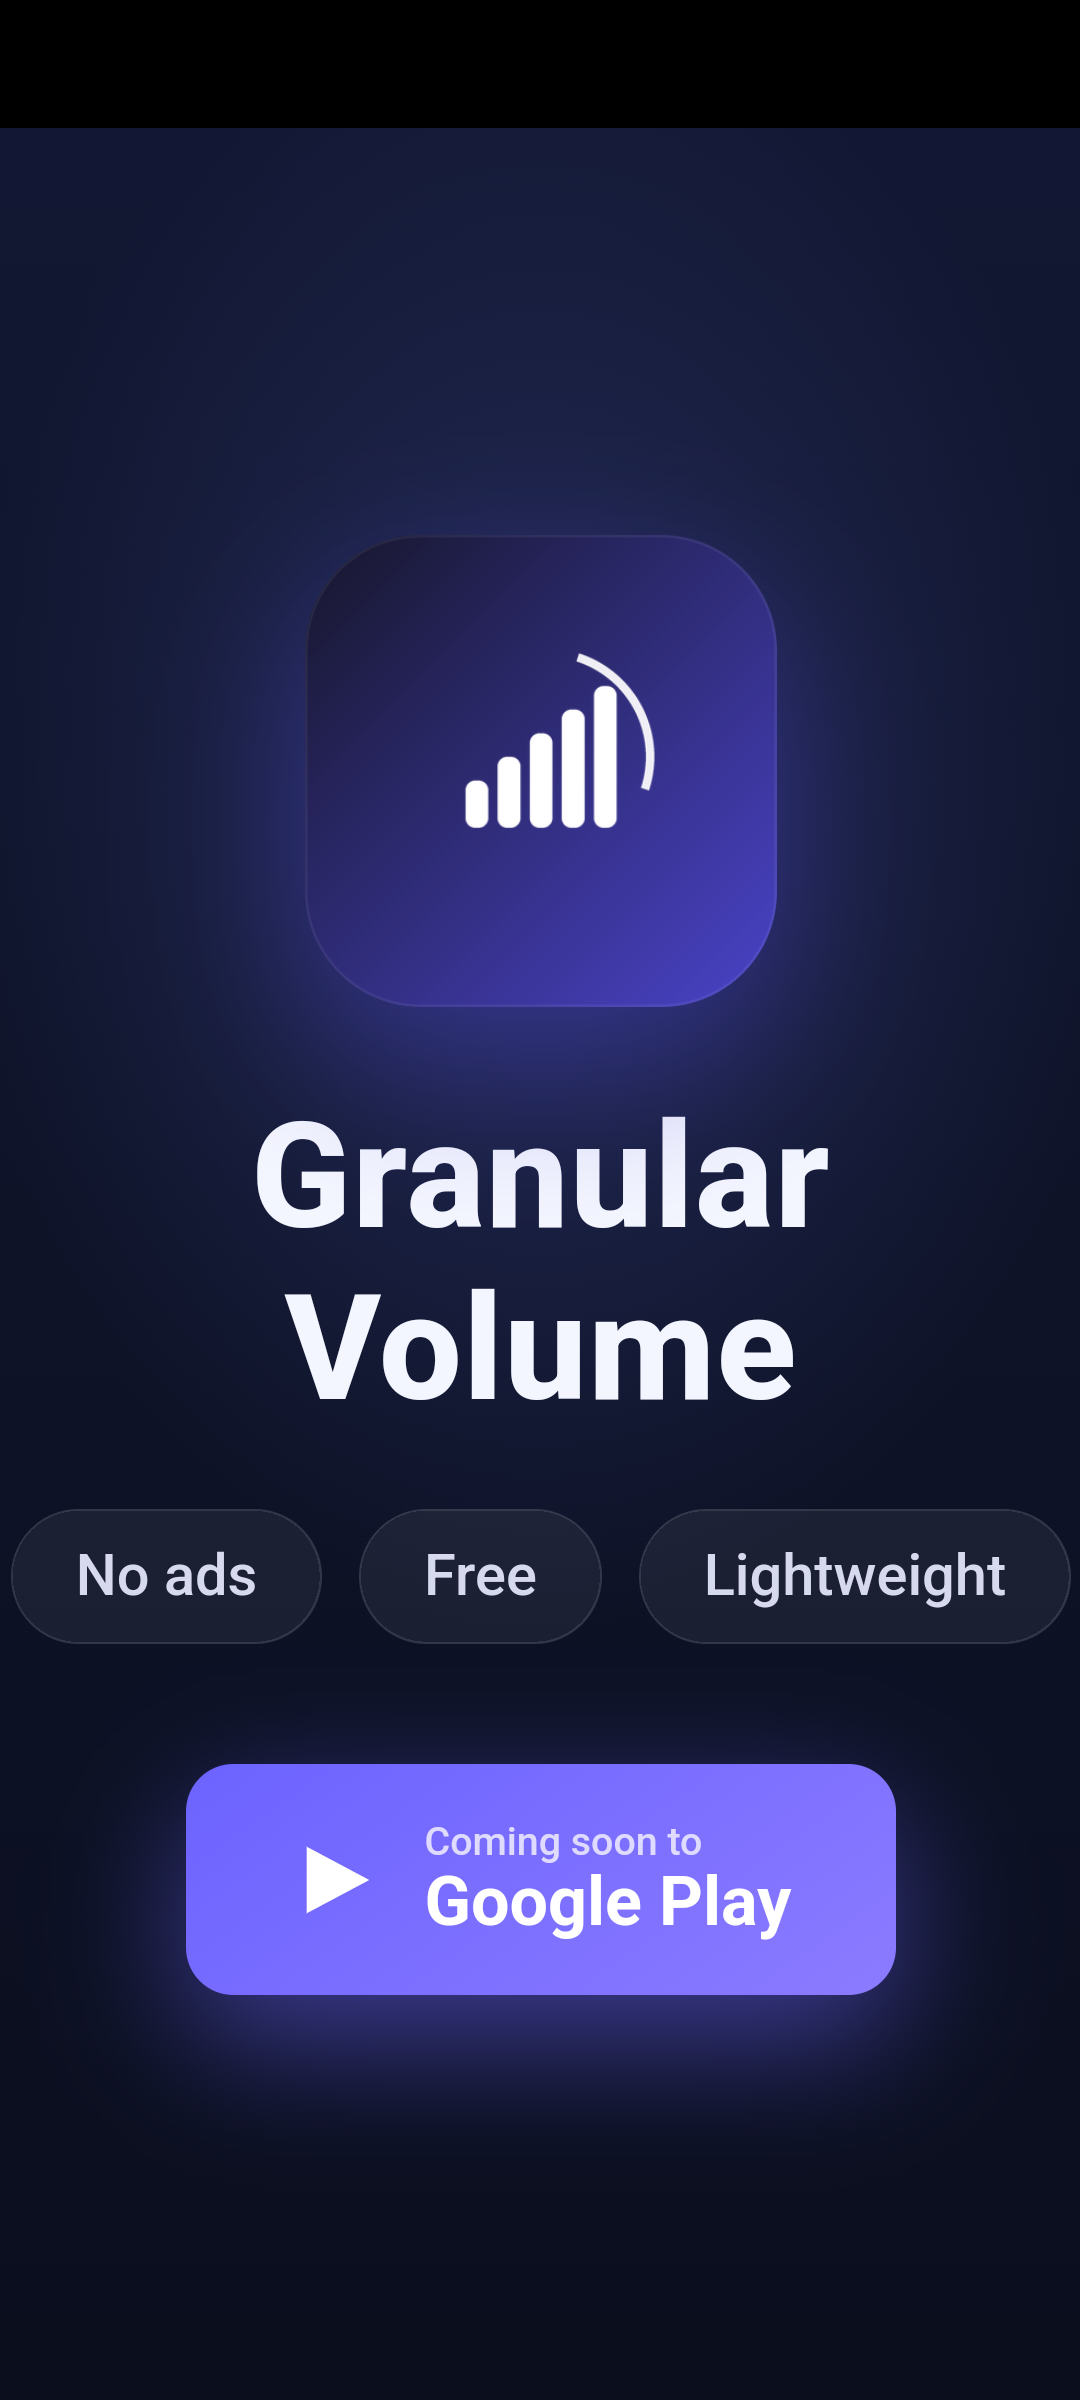
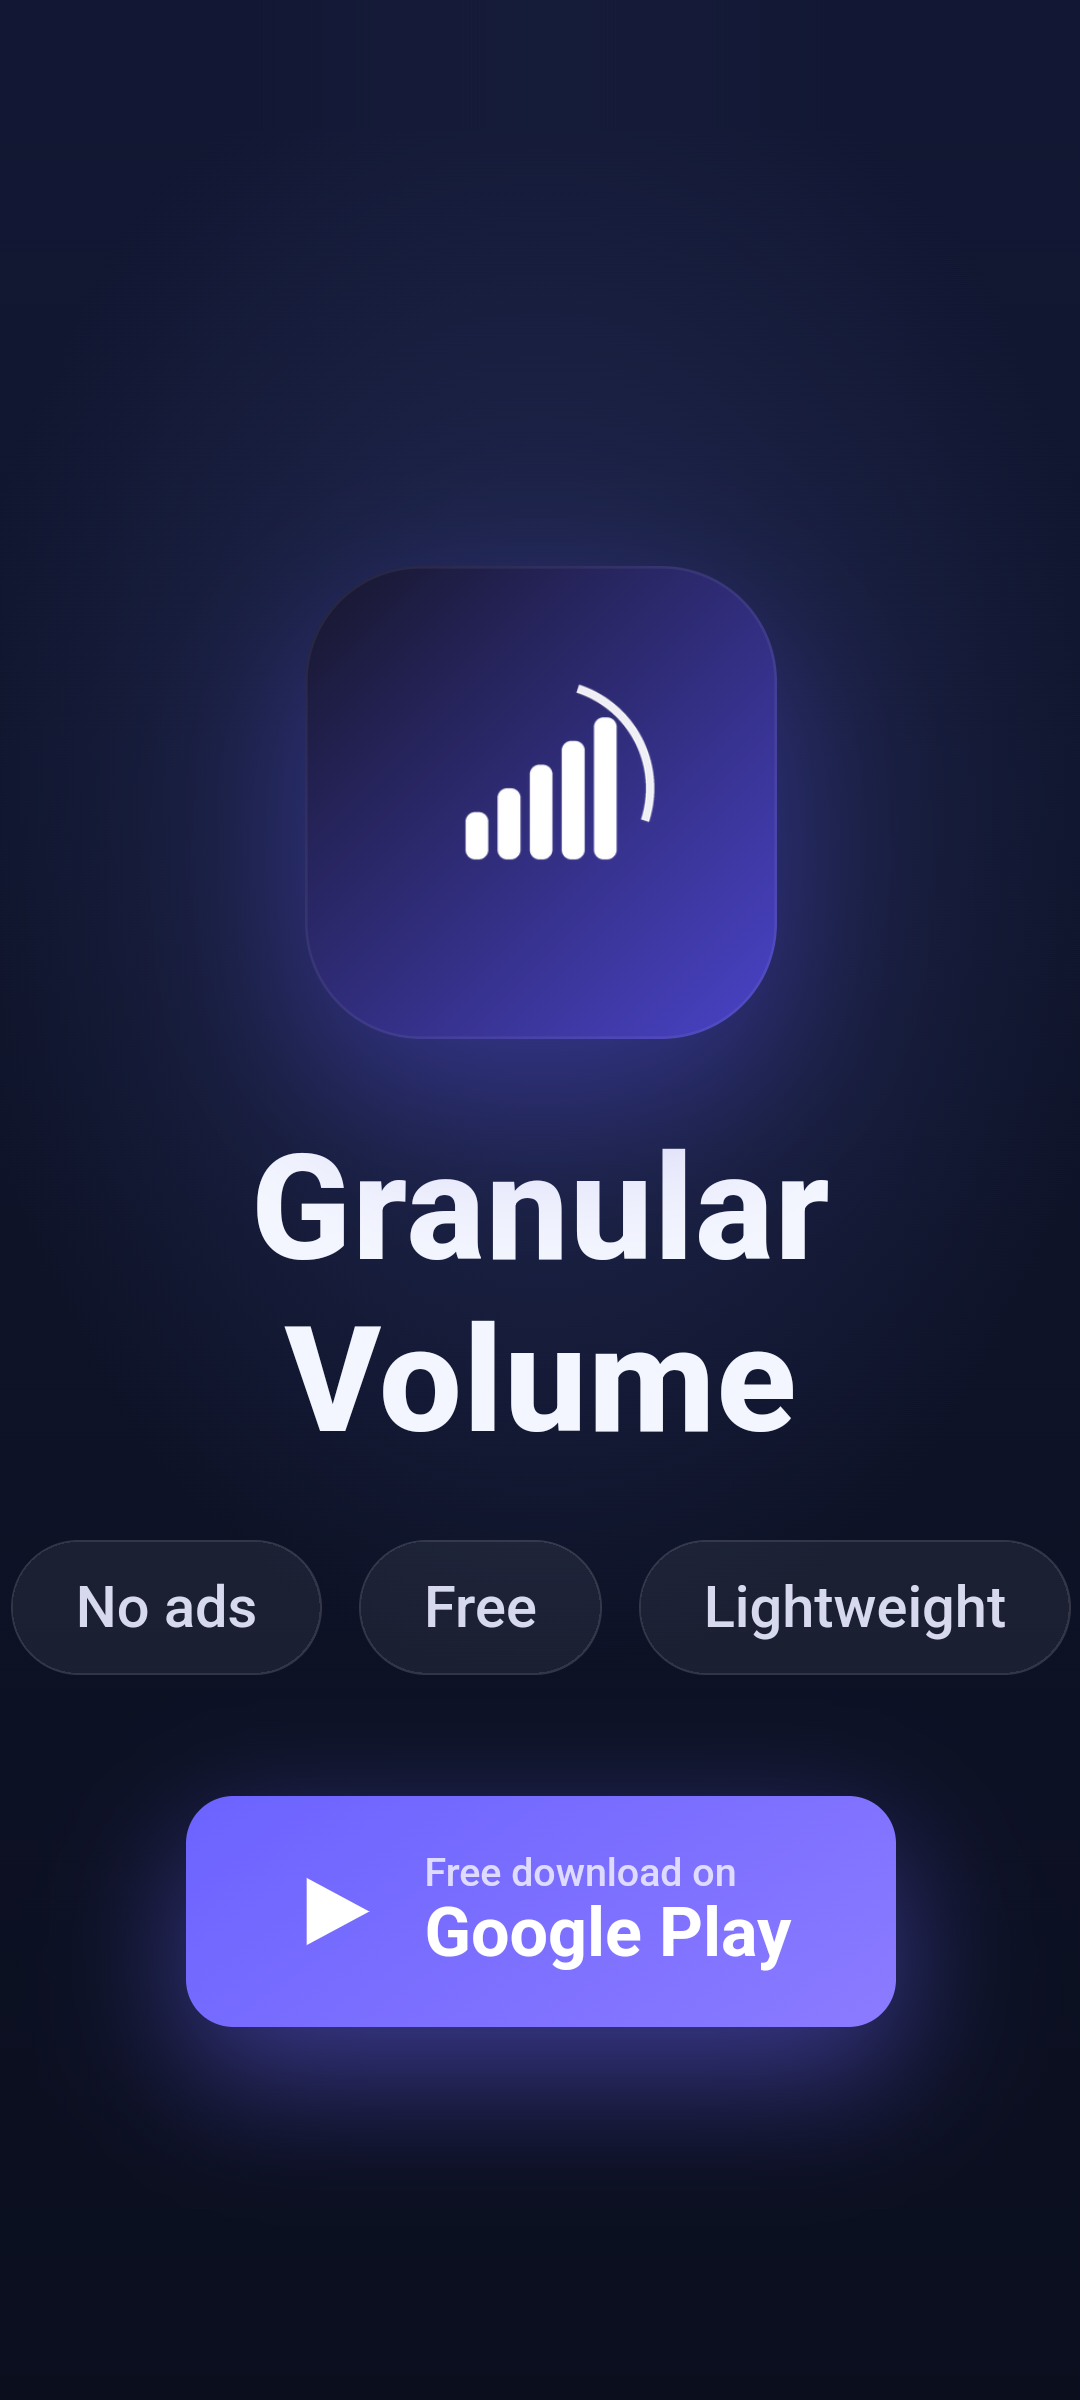
Rebuild promo video at studio grade (v2 pipeline)
Crossfade transitions between all segments instead of hard cuts,
captions that fade and slide in, unified color grade with a gentle
vignette, eased Ken Burns on stills, slow drift motion on screen
recordings, and dynamic xfade offsets measured from real segment
durations so variable-frame-rate sources cannot desync the assembly.

Content fixes: outro CTA updated from "Coming soon to" to "Free
download on Google Play" (re-rendered on the emulator at 1080x2400),
the notification segment now uses the clean clip4b take without
emulator debug notifications, and the steps segment caption now
carries the brand anchor "Quieter than your phone allows".

The synthesized ambient drone track is gone for good: the promo is
silent by design, since store promos autoplay muted and the captions
carry the message.

diff --git a/video/assets/outro.html b/video/assets/outro.html
@@ -46,7 +46,7 @@
     </div>
     <div class="cta">
       <svg class="play" viewBox="0 0 24 24" fill="none"><path d="M4 3.5 L20 12 L4 20.5 Z" fill="#ffffff"/></svg>
-      <div class="txt"><div class="small">Coming soon to</div><div class="big">Google Play</div></div>
+      <div class="txt"><div class="small">Free download on</div><div class="big">Google Play</div></div>
     </div>
   </div>
 <script>